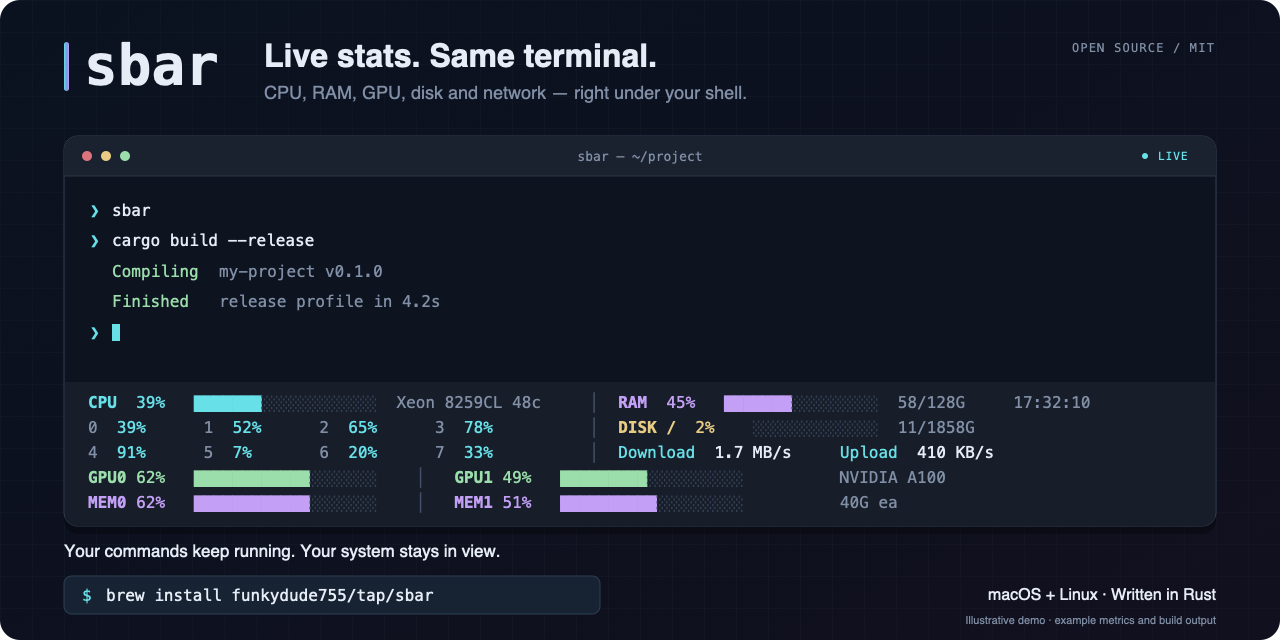
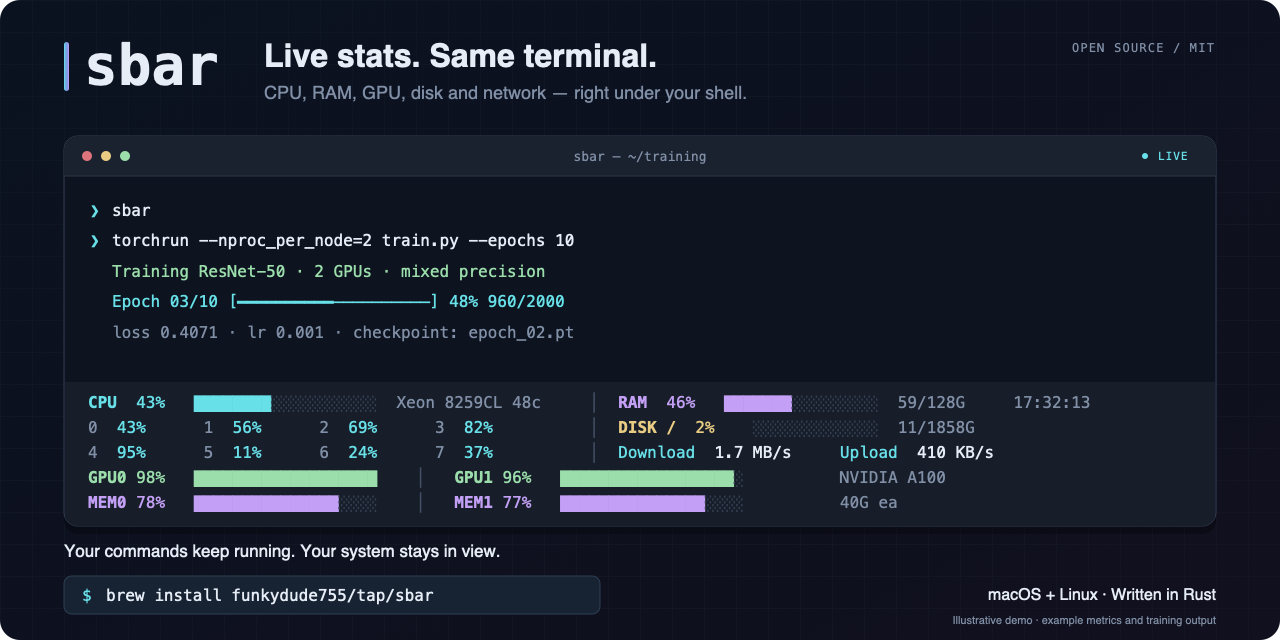
Show model training in the repository demo

diff --git a/scripts/render_visuals.py b/scripts/render_visuals.py
@@ -44,13 +44,15 @@ def bar(column, row, pct, width, color):
 
 
 SAMPLES = [
-    (18, 42, 31, 24, "1.2 MB/s", "340 KB/s"),
-    (46, 43, 55, 41, "2.4 MB/s", "480 KB/s"),
-    (72, 45, 78, 64, "3.8 MB/s", "620 KB/s"),
-    (39, 45, 62, 49, "1.7 MB/s", "410 KB/s"),
-    (12, 42, 28, 19, "840 KB/s", "120 KB/s"),
-    (18, 42, 31, 24, "1.2 MB/s", "340 KB/s"),
+    (38, 45, 92, 94, "1.2 MB/s", "340 KB/s"),
+    (46, 46, 97, 95, "2.4 MB/s", "480 KB/s"),
+    (52, 46, 94, 98, "3.8 MB/s", "620 KB/s"),
+    (43, 46, 98, 96, "1.7 MB/s", "410 KB/s"),
+    (41, 45, 95, 93, "840 KB/s", "120 KB/s"),
+    (48, 46, 96, 97, "1.2 MB/s", "340 KB/s"),
 ]
+
+TRAINING_LOSSES = ["0.4382", "0.4267", "0.4195", "0.4071", "0.3986", "0.3914"]
 
 
 def metrics(index):
@@ -61,7 +63,7 @@ def metrics(index):
               cell(55, 0, "RAM", PURPLE, font_weight="bold"),
               cell(60, 0, f"{ram:3}%", PURPLE), bar(66, 0, ram, 16, PURPLE),
               cell(84, 0, f"{round(128 * ram / 100)}/128G", MUTED),
-              cell(96, 0, f"17:32:{7 + index:02}", MUTED)]
+              cell(96, 0, f"17:32:{7 + index * 2:02}", MUTED)]
     for row in [0, 1, 2]:
         chunks.append(cell(52, row, "│", "#445168"))
     for core in range(8):
@@ -79,27 +81,24 @@ def metrics(index):
                    cell(col + 5, 3, f"{pct:3}%", GREEN),
                    bar(col + 11, 3, pct, 19, GREEN),
                    cell(col, 4, f"MEM{gpu}", PURPLE, font_weight="bold"),
-                   cell(col + 5, 4, f"{62 - gpu * 11:3}%", PURPLE),
-                   bar(col + 11, 4, 62 - gpu * 11, 19, PURPLE)]
+                   cell(col + 5, 4, f"{78 - gpu:3}%", PURPLE),
+                   bar(col + 11, 4, 78 - gpu, 19, PURPLE)]
     chunks += [cell(34, 3, "│", "#445168"), cell(34, 4, "│", "#445168"),
                cell(78, 3, "NVIDIA A100", MUTED), cell(78, 4, "40G ea", MUTED)]
     return "".join(chunks)
 
 
 def shell(index):
+    step = 840 + index * 40
+    percent = step // 20
+    filled = round(percent / 5)
+    progress = "━" * filled + "─" * (20 - filled)
     chunks = [text(90, 216, "❯", CYAN), text(112, 216, "sbar"),
-              text(90, 246, "❯", CYAN), text(112, 246, "cargo build --release")]
-    if index in (1, 2, 3, 4, 5):
-        chunks += [text(112, 277, "Compiling", GREEN),
-                   text(219, 277, "my-project v0.1.0", MUTED)]
-    if index in (3, 4, 5):
-        chunks += [text(112, 307, "Finished", GREEN),
-                   text(219, 307, "release profile in 4.2s", MUTED),
-                   text(90, 338, "❯", CYAN),
-                   '<rect class="cursor" x="112" y="324" width="8" height="17" fill="#68e0e8"/>']
-    else:
-        chunks.append(text(112, 318, "Building", YELLOW))
-        chunks.append(text(219, 318, "[" + "━" * (index * 4 + 4) + "─" * (16 - index * 4) + "]", MUTED))
+              text(90, 246, "❯", CYAN),
+              text(112, 246, "torchrun --nproc_per_node=2 train.py --epochs 10"),
+              text(112, 277, "Training ResNet-50 · 2 GPUs · mixed precision", GREEN),
+              text(112, 307, f"Epoch 03/10  [{progress}]  {percent}%  {step}/2000", CYAN),
+              text(112, 338, f"loss {TRAINING_LOSSES[index]}  ·  lr 0.001  ·  checkpoint: epoch_02.pt", MUTED)]
     return "".join(chunks)
 
 
@@ -109,8 +108,6 @@ def document(animated):
         style += """
 .sample { opacity: 0; }
 .sample.first { opacity: 1; }
-.cursor { animation: blink 1.2s step-end infinite; }
-@keyframes blink { 0%, 50%, 100% { opacity: 1; } 51%, 99% { opacity: 0; } }
 """
         for i in range(6):
             start, end = i * 100 / 6, (i + 1) * 100 / 6
@@ -127,12 +124,11 @@ def document(animated):
 @media (prefers-reduced-motion: reduce) {
   .sample { animation: none !important; opacity: 0 !important; }
   .sample.first { opacity: 1 !important; }
-  .cursor { animation: none !important; }
 }
 """
     parts = [f'''<svg xmlns="http://www.w3.org/2000/svg" width="1280" height="640" viewBox="0 0 1280 640" role="img" aria-labelledby="title description">
 <title id="title">sbar — live stats, same terminal</title>
-<desc id="description">Illustrative terminal demo: a command runs above a persistent status bar with updating CPU, memory, GPU, disk, and network metrics. Install with brew install funkydude755/tap/sbar. Supports macOS and Linux. The metrics and build output are examples.</desc>
+<desc id="description">Illustrative terminal demo: a model trains on two GPUs above a persistent status bar with updating CPU, memory, GPU, disk, and network metrics. Training progress advances as loss decreases. Install with brew install funkydude755/tap/sbar. Supports macOS and Linux. The metrics and training output are examples.</desc>
 <defs>
   <linearGradient id="background" x2="1" y2="1"><stop stop-color="#0a1220"/><stop offset="1" stop-color="#11101e"/></linearGradient>
   <linearGradient id="edge"><stop stop-color="#68e0e8"/><stop offset=".54" stop-color="#7994e5"/><stop offset="1" stop-color="#c3a0f5"/></linearGradient>
@@ -155,7 +151,7 @@ def document(animated):
              '<circle cx="87" cy="156" r="5" fill="#de747b"/>',
              '<circle cx="106" cy="156" r="5" fill="#e9cc83"/>',
              '<circle cx="125" cy="156" r="5" fill="#9bddab"/>',
-             text(640, 161, "sbar — ~/project", MUTED, 13, text_anchor="middle"),
+             text(640, 161, "sbar — ~/training", MUTED, 13, text_anchor="middle"),
              '<circle cx="1145" cy="156" r="3" fill="#68e0e8"/>',
              text(1158, 160, "LIVE", CYAN, 11, letter_spacing="1"),
              '<rect x="65" y="382" width="1150" height="144" fill="#171e2a"/>',
@@ -171,7 +167,7 @@ def document(animated):
               text(82, 601, "$", CYAN, 16),
               text(106, 601, "brew install funkydude755/tap/sbar", INK, 16),
               text(1216, 600, "macOS + Linux  ·  Written in Rust", INK, 16, SANS, text_anchor="end"),
-              text(1216, 624, "Illustrative demo · example metrics and build output", MUTED, 11, SANS, text_anchor="end"),
+              text(1216, 624, "Illustrative demo · example metrics and training output", MUTED, 11, SANS, text_anchor="end"),
               '</svg>']
     return "\n".join(parts)
 

diff --git a/README.md b/README.md
@@ -2,9 +2,9 @@
 
 Keep CPU, RAM, GPU, disk, and network stats visible while you work in your shell. A persistent terminal status bar for macOS and Linux, written in Rust.
 
-![Animated illustration of sbar: a build runs above a persistent status bar with changing CPU, RAM, GPU, disk, and network metrics.](assets/demo.svg)
+![Animated illustration of sbar: a model trains on two GPUs above a persistent status bar with changing CPU, RAM, GPU, disk, and network metrics.](assets/demo.svg)
 
-*Illustrative demo with example metrics. [View the still image](assets/social-preview.png).*
+*Illustrative model-training demo with example metrics and output. [View the still image](assets/social-preview.png).*
 
 Try the stable release on macOS or Linux:
 

diff --git a/assets/README.md b/assets/README.md
@@ -1,6 +1,6 @@
 # Repository visuals
 
-- `demo.svg`: animated README illustration, with a static fallback for reduced-motion preferences. Metrics and command output are illustrative, not a benchmark or screen recording.
+- `demo.svg`: animated README illustration of model training on two GPUs, with a static fallback for reduced-motion preferences. Metrics and training output are illustrative, not a benchmark or screen recording. The example `train.py` represents a user's training script; it is not included in sbar.
 - `social-preview.png`: 1280 × 640 share card for GitHub's social preview and launch posts.
 - `social-preview.svg`: editable vector version of that share card.
 
